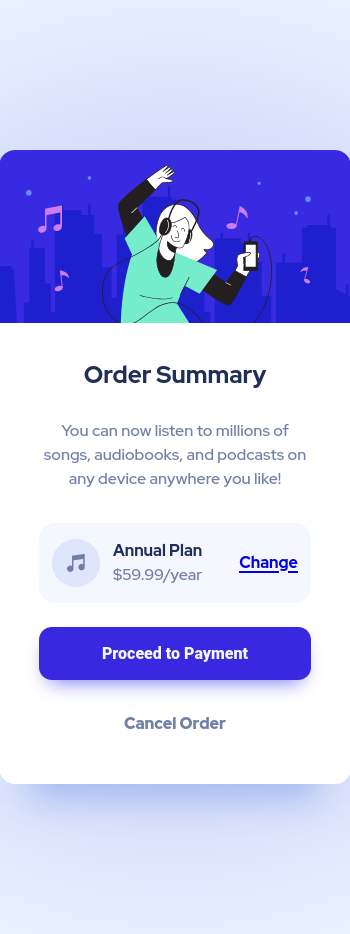
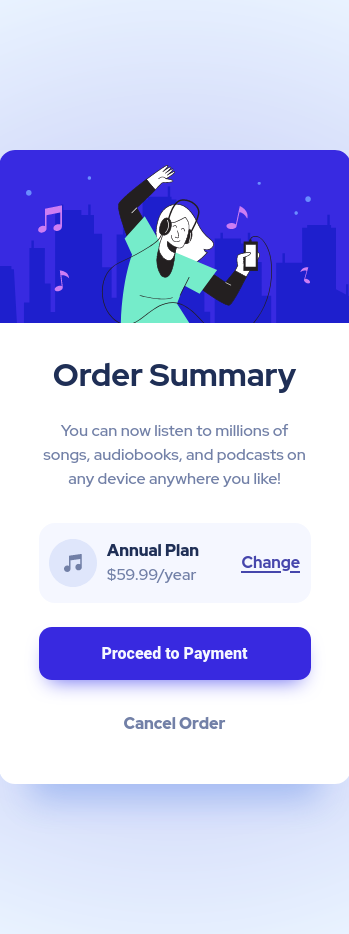
Added solution files

diff --git a/index.html b/index.html
@@ -29,7 +29,11 @@
 
   <body>
     <main>
-      <img class="main-image" src="./images/illustration-hero.svg" alt="illustration-hero" />
+      <img
+        class="main-image"
+        src="./images/illustration-hero.svg"
+        alt="illustration-hero"
+      />
 
       <div class="order-summary">
         <h1>Order Summary</h1>
@@ -43,7 +47,7 @@
           <img src="./images/icon-music.svg" alt="icon-music" />
 
           <div class="plan-container">
-            <p class="annual-plan"> Annual Plan</p>
+            <p class="annual-plan">Annual Plan</p>
             <p class="amount">$59.99/year</p>
           </div>
 
@@ -52,7 +56,7 @@
 
         <button class="proceed-btn">Proceed to Payment</button>
 
-      <a class="cancel-btn" href="#">Cancel Order</a>
+        <a class="cancel-btn" href="#">Cancel Order</a>
       </div>
     </main>
 

diff --git a/css/styles.css b/css/styles.css
@@ -77,10 +77,8 @@ h1,
     margin-left:2em;
     font-weight: 700;
     font-size: 1rem;
+    color: #4646ac;
 }
-
-
-
 
 .proceed-btn {
   font-size: 1em;
